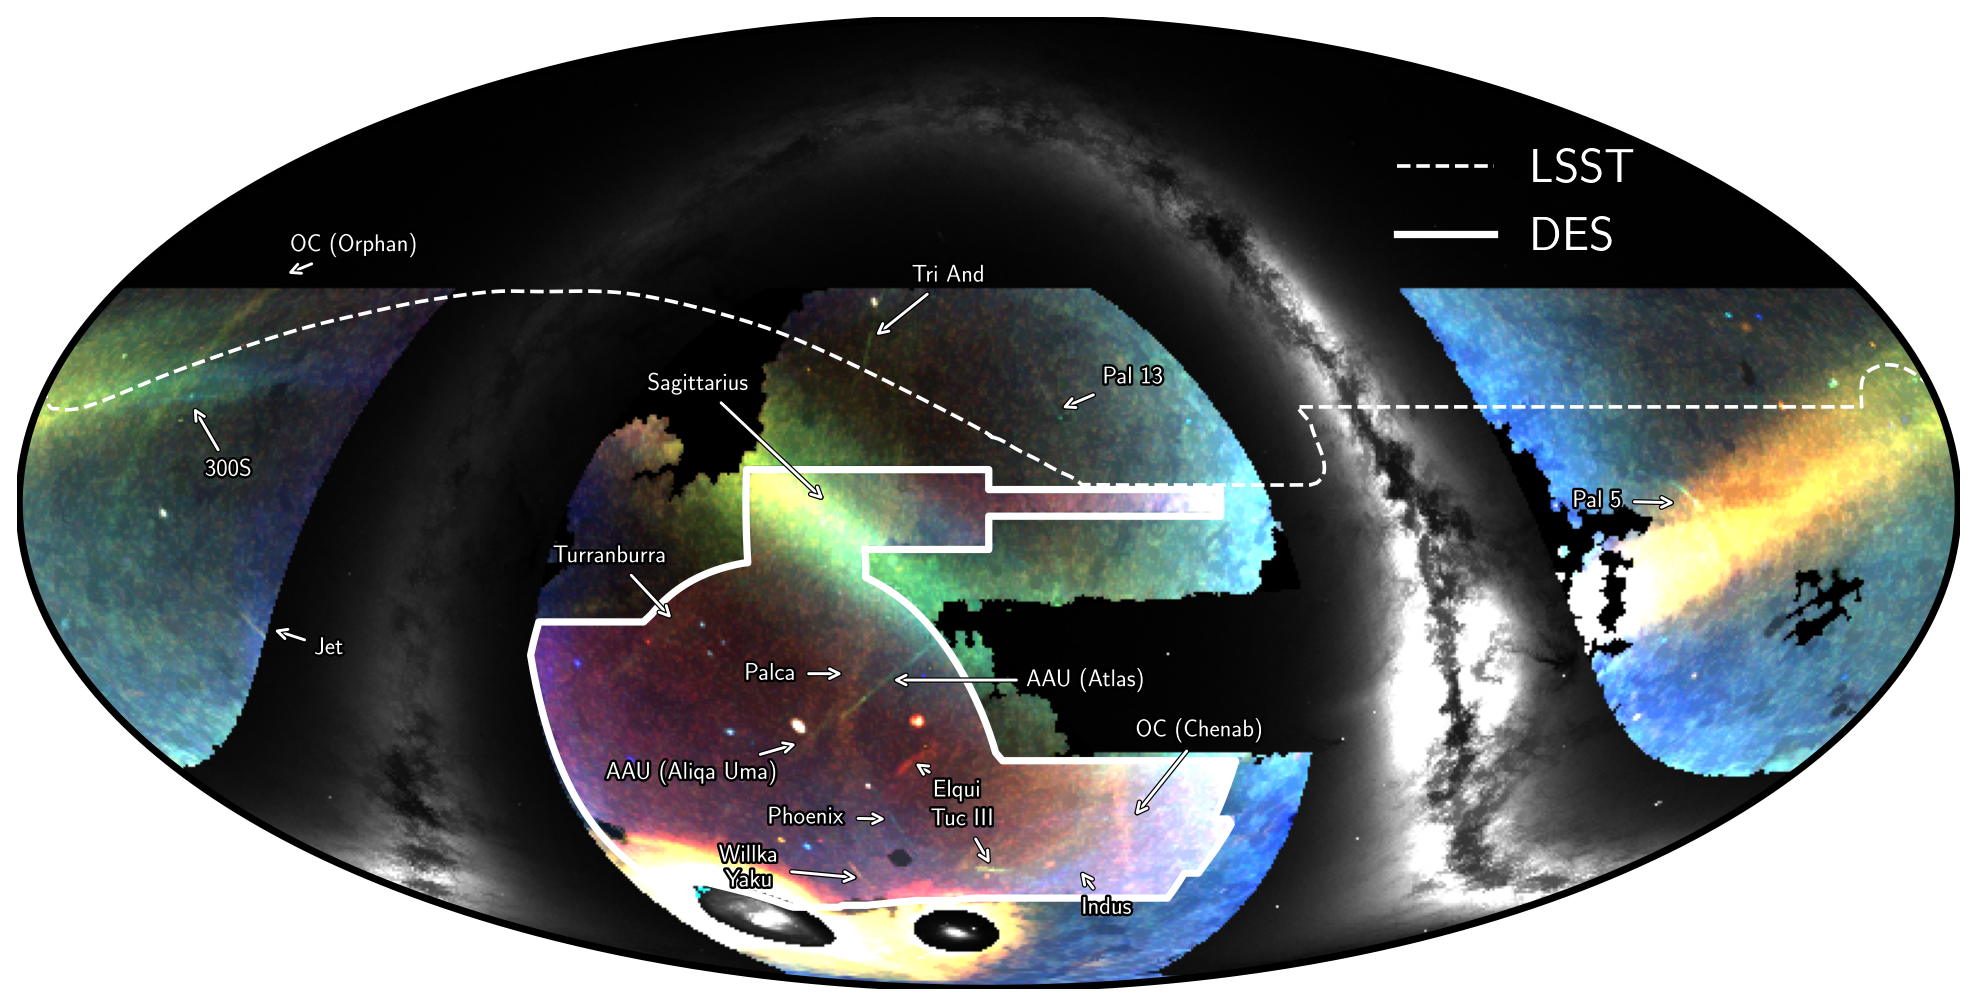
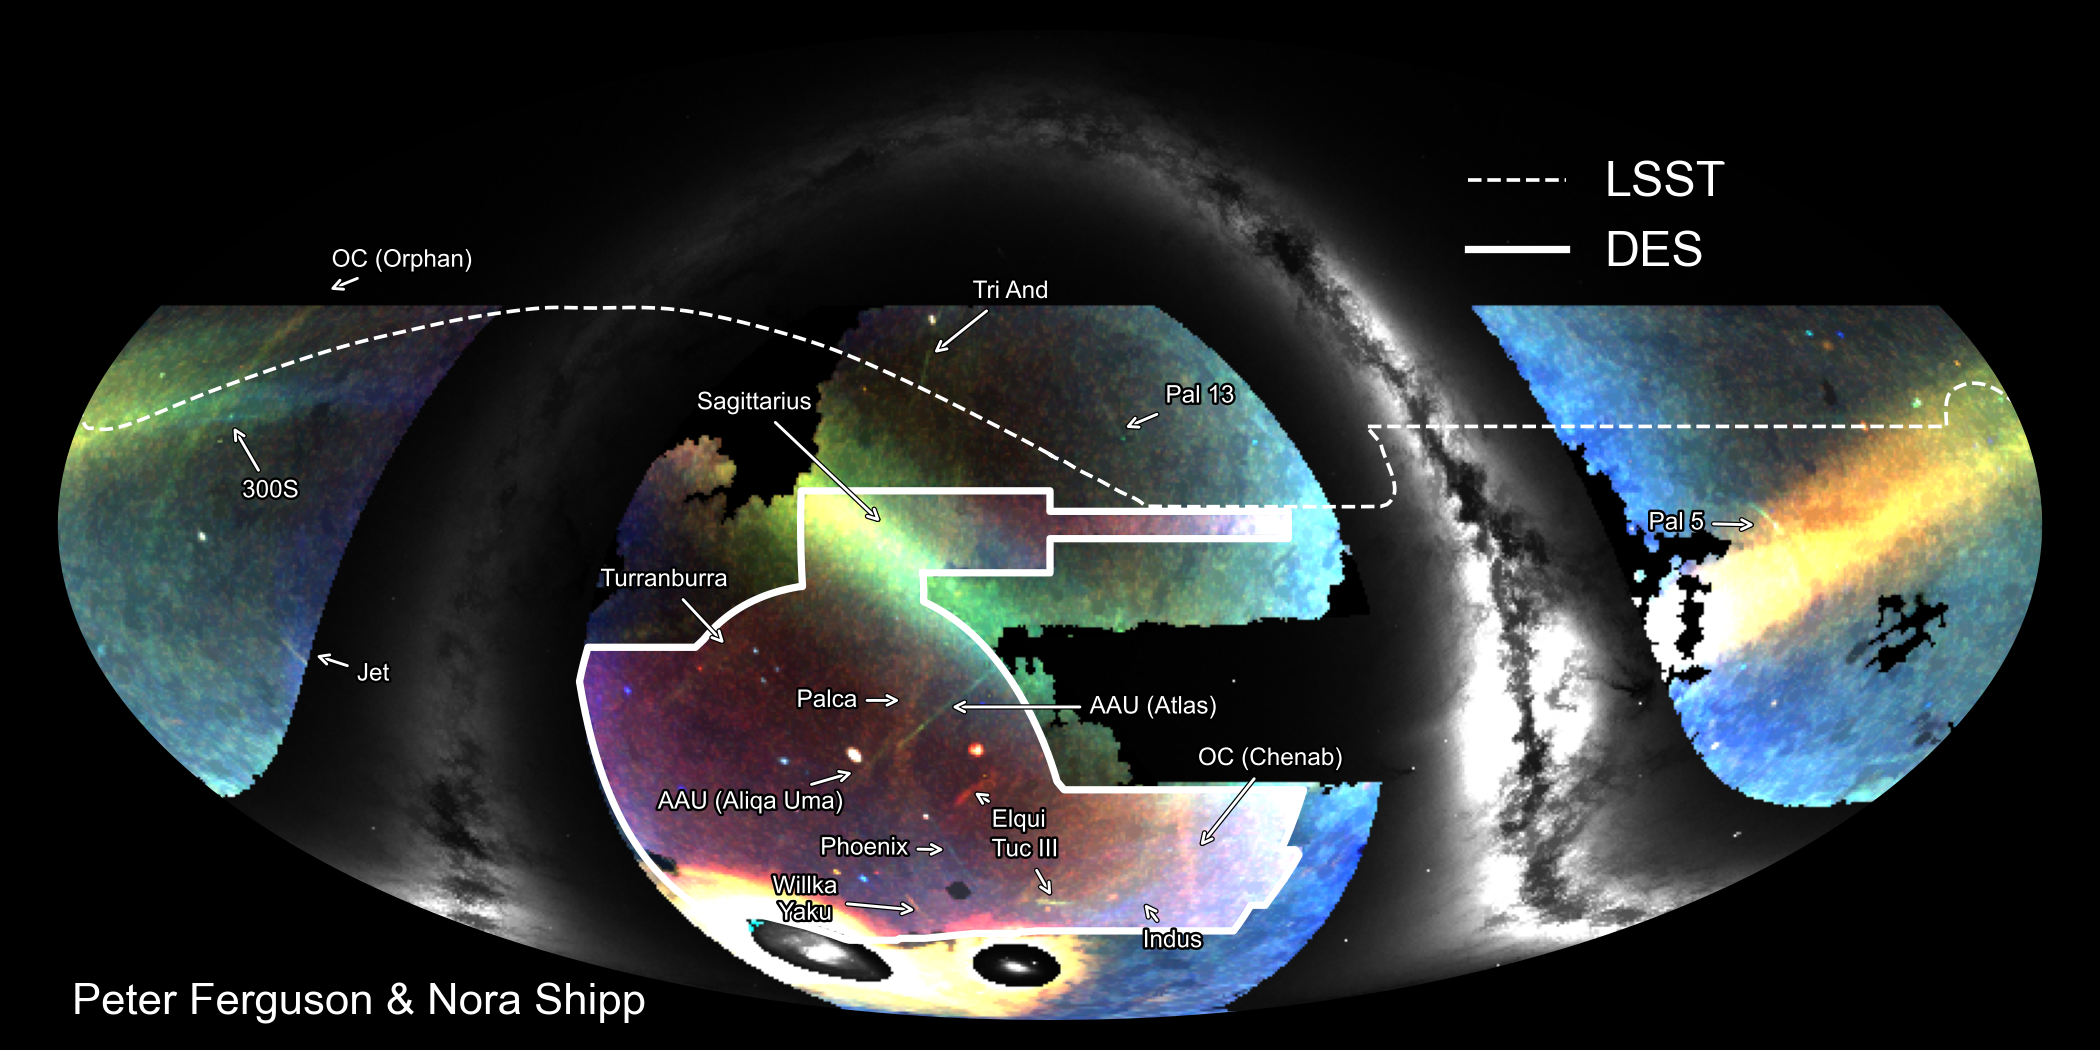
name on plot

diff --git a/code/make_all_plots.py b/code/make_all_plots.py
@@ -1,0 +1,84 @@
+import fitsio
+import yaml 
+import matplotlib.pyplot as plt
+import numpy as np
+import healpy as hp
+import sys
+sys.path.append("../code/")
+import fos_preparation 
+import fos_plotting
+plt.rcParams["font.family"] = "sans-serif"
+plt.rcParams["font.sans-serif"] = ["Arial"]
+
+
+
+
+if __name__ == "__main__":
+    # this should be run from the code folder
+    rgb_decals = np.load("../data/hpx_maps/decals_dr10_corrected_rgb_nside_512_smooth.npy")
+    rgb_des= np.load("../data/hpx_maps/des_y6_gold_rgb_stack_nside_512.npy")
+    gaia_data = fos_preparation.load_gaia_density_data("../data/hpx_maps/gaia_dr3_density_nside_512_nest.fits")
+    mask_arr = fitsio.read("../data/hpx_maps/decam_mask_nside_512.fits")
+    with open("../data/annotations/stream_arrow_annotations.yaml", "r") as f:
+        annotations_dict = yaml.safe_load(f)
+
+    annotations_to_plot = [
+        '300S',
+        'AAU (Aliqa Uma)',
+        'AAU (Atlas)',
+        'Elqui',
+        'Indus',
+        #'Jhelum',
+        'Jet',
+        'OC (Chenab)',
+        'OC (Orphan)',
+        'Pal 13',
+        'Pal 5',
+        'Palca',
+        'Phoenix',
+        'Sagittarius',
+        'Tri And',
+        'Tuc III',
+        'Turranburra',
+        'Willka\nYaku'
+    ]
+    annotations_dict = {stream_name : annotations_dict[stream_name] for stream_name in annotations_to_plot}
+
+
+    for white_background in [True, False]:
+        print(f"white_background = {white_background}")
+        for proj_string in ["ortho", "moll"]:
+            print(f"proj = {proj_string}")
+            if proj_string == "ortho":
+                proj = hp.projector.OrthographicProj(rot=[30, -20, 0])
+                annotations_bool = [False]
+            if proj_string == "moll":
+                proj = hp.projector.MollweideProj()
+                annotations_bool = [True, False]
+            
+            image, proj = fos_preparation.assemble_image(rgb_des, rgb_decals, 
+                                                         mask_arr, gaia_data, do_diameter_closing=True, 
+                                                         white_background=white_background, 
+                                                         proj=proj)
+            for annotations in annotations_bool:
+                print(f"annotations = {annotations}")
+                fig, ax = plt.subplots(1, 1, figsize=(12, 6), dpi=175)
+        
+                fos_plotting.plot_fos(
+                    ax, 
+                    image, 
+                    proj,
+                    DES=True, 
+                    LSST=True,
+                    annotations=annotations,
+                    oval=True,
+                    white_background=white_background,
+                    annotations_dict=annotations_dict)
+                fig.tight_layout()
+
+                if white_background:
+                    facecolor = "white"
+                else:
+                    facecolor = "k"
+                plt.savefig(f"../plots/fos_{proj_string}_{annotations}_{white_background}.png", 
+                            bbox_inches="tight", facecolor=facecolor)

diff --git a/code/fos_plotting.py b/code/fos_plotting.py
@@ -135,7 +135,7 @@ def plot_stream_annotations(ax, annotations_dict, proj,
 
 
 def plot_fos(ax, image, proj, DES=True, LSST=True, annotations=True, 
-             annotations_dict=None, oval=True):
+             annotations_dict=None, oval=True,  white_background=False, name=True):
     ax.imshow(image, origin='lower', extent=proj.get_extent())
     if LSST:
         lsst_ra, lsst_dec = load_lsst_line()
@@ -167,6 +167,15 @@ def plot_fos(ax, image, proj, DES=True, LSST=True, annotations=True,
     if DES or LSST:
         ax.legend(loc=(0.7, 0.73), labelcolor="white", facecolor="None", 
                   edgecolor="None", fontsize=20)
+    if name:
+        if white_background:
+           text_color = "k"
+        else:
+            text_color = "white"
+
+        ax.text(0.01,0.0,"Peter Ferguson & Nora Shipp", color=text_color,
+                fontsize=18, ha="left", va="bottom", transform=ax.transAxes)
+        
     ax.set_axis_off()
     ax.grid(False)
     
